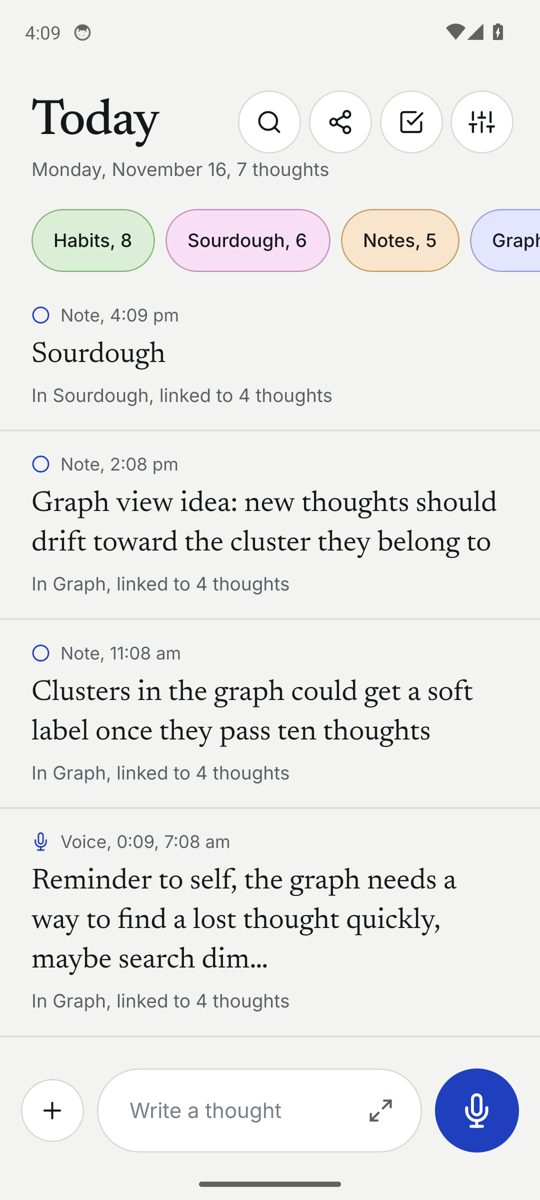
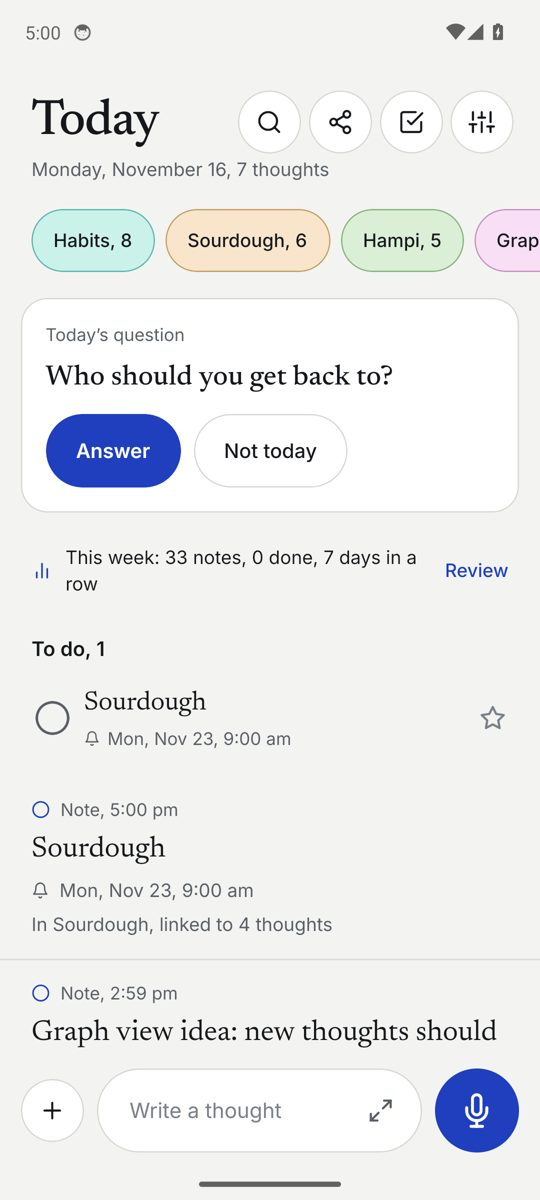
Record what the 0.5.0-beta.1 run confirmed; refresh screenshots [skip ci]
Claude-Session: https://claude.ai/code/session_01RqrPe39gNuUagwTNJssm7J

diff --git a/docs/STATUS.md b/docs/STATUS.md
@@ -15,7 +15,18 @@ _Last updated: 16 Nov 2026, v0.5.0-beta.1. Update this file whenever you finish 
 3. Optional translation into English on the phone (D39).
 4. A question a day, a weekly review, note templates (D40).
 
+### Verified in 0.5 on the emulator (run for `release/v0.5.0-beta.1`, screenshots on `smoke-shots-release-v0.5.0-beta.1`)
+
+- Today shows the day's question with Answer and Not today, and the "This week" line
+- The weekly review: four numbers, a bar per day, "Most on your mind", and the empty state for older notes
+- Holding a note in a group opens its menu
+- Settings shows Today (a question a day) and Translation, and no Engram Cloud section, as expected with the flag off
+- No crash, no `engram:` error lines
+- The phone APK is now 90 MB, up from 72 MB: ML Kit's translation library.
+
 ### Not verified in 0.5
+
+- The template chips on a new note (the walkthrough types a title first, which hides them).
 
 - **The microphone on a real phone.** The fix was confirmed only by reading the generated manifest. No test has ever recorded audio.
 - **Translation.** `expo-translate-text` has never run here: language detection, the pack download, the result. Only the storage and search of an English version are tested (in Node).
